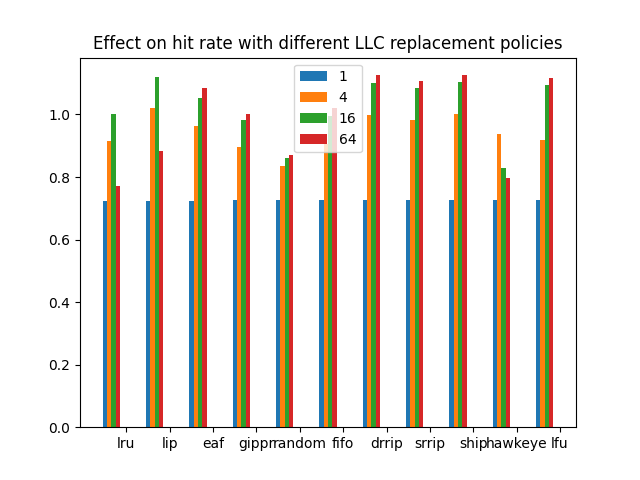
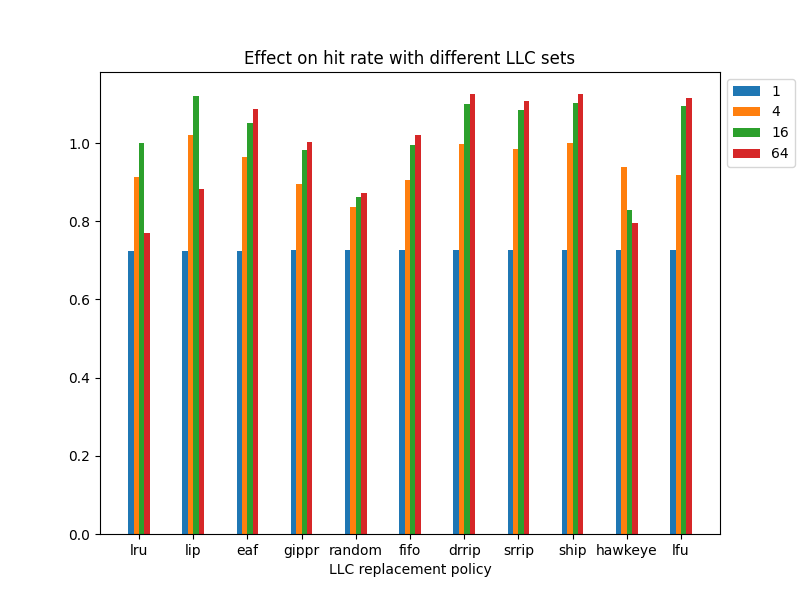
updatd beautiful pics

diff --git a/set_way_plots.py b/set_way_plots.py
@@ -42,23 +42,27 @@ width = 0.1
 for i in range(len(TRACES)):
     data[0][i] = data[0][i]/data[0][i][0][2]
     data[1][i] = data[1][i]/data[1][i][0][2]
-
+    
+    plt.figure(figsize=(8, 6))
     for k in range(len(llc_sets)):
         plt.bar(ind + width*k, data[0][i, :, k], width, label=llc_sets[k])
 
-    plt.xticks(ind+ width*(len(llc_repl) - 1) /2 , llc_repl)
-    plt.legend()
-    plt.title("Effect on IPC with different LLC replacement policies")
+    plt.xticks(ind+ width*(len(llc_sets) - 1) /2 , llc_repl)
+    plt.legend(loc='upper left', bbox_to_anchor=(1, 1))
+    plt.title("Effect on IPC with different LLC sets")
+    plt.xlabel('LLC replacement policy')
     # plt.show()
     plt.savefig(f"results/llc_set_ways/pics/{TRACES[i][:-3]}_ipc.png")
     plt.close()
-
+    
+    plt.figure(figsize=(8, 6))
     for k in range(len(llc_sets)):
         plt.bar(ind + width*k, data[1][i, :, k], width, label=llc_sets[k])
 
-    plt.xticks(ind + width*(len(llc_repl) - 1) /2 , llc_repl)
-    plt.legend()
-    plt.title("Effect on hit rate with different LLC replacement policies")
+    plt.xticks(ind + width*(len(llc_sets) - 1) /2 , llc_repl)
+    plt.legend(loc='upper left', bbox_to_anchor=(1, 1))
+    plt.title("Effect on hit rate with different LLC sets")
+    plt.xlabel('LLC replacement policy')
     # plt.show()
     plt.savefig(f"results/llc_set_ways/pics/{TRACES[i][:-3]}_hit.png")
     plt.close()
